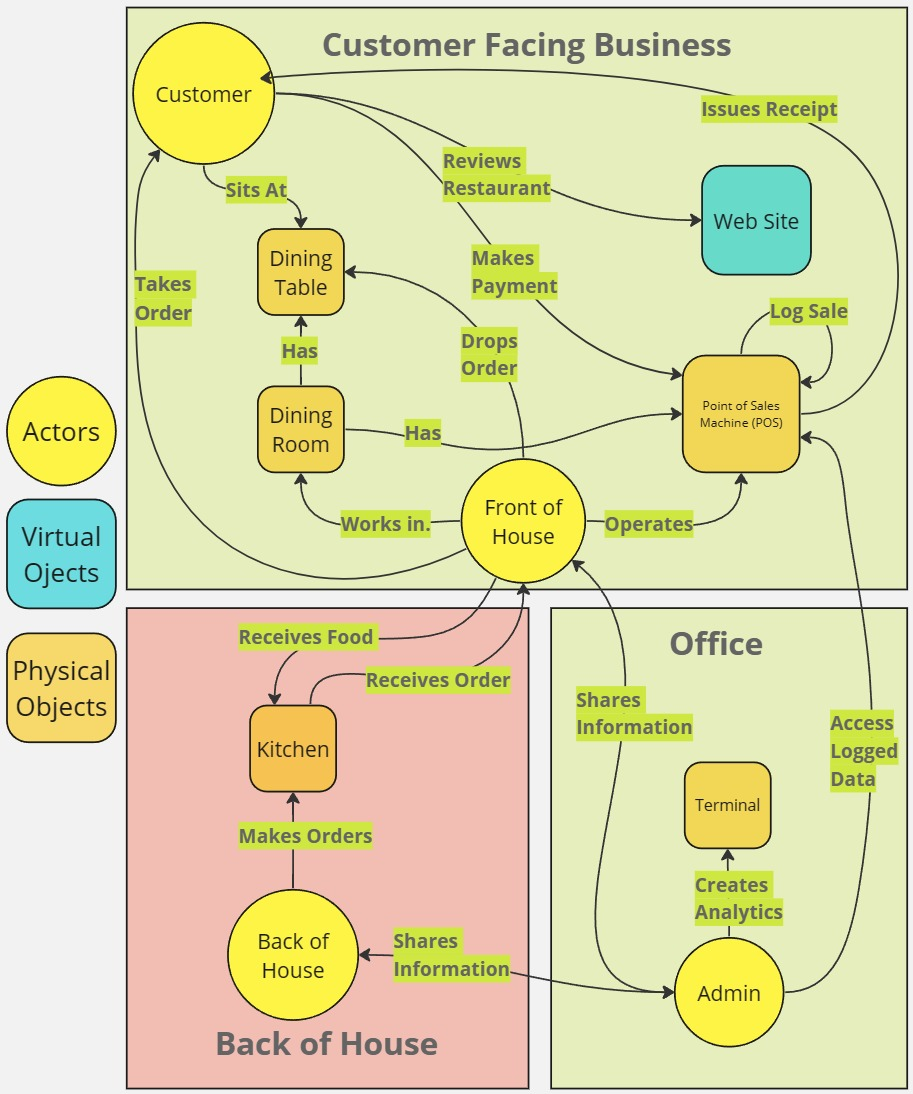
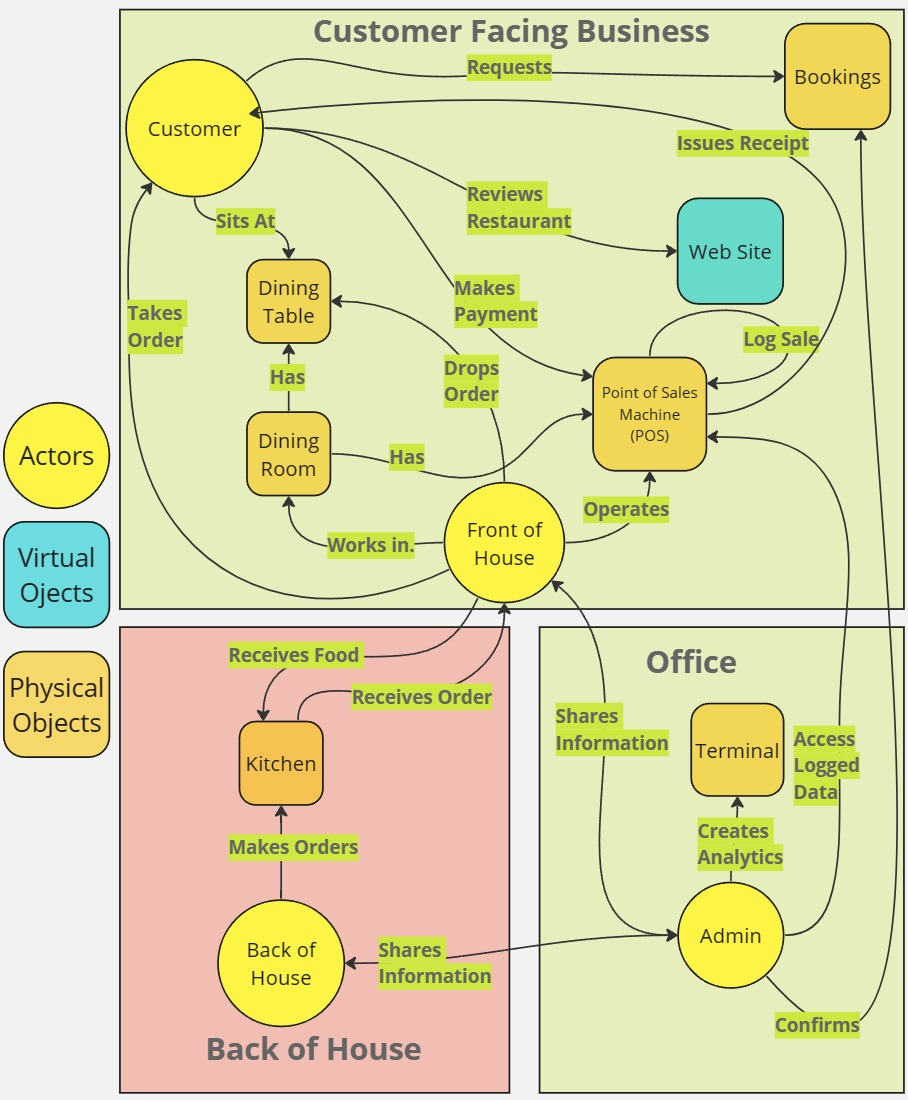
Added Task and Support
Including some blank tables with suggested Tasks for the members.

diff --git a/main.tex b/main.tex
@@ -1,7 +1,19 @@
 \documentclass{article}
 \usepackage{graphicx} % Required for inserting images
 \usepackage[smartEllipses]{markdown}
-\usepackage[left=2cm,right=2cm,top=2cm,bottom=2cm]{geometry} % Adjust margins as needed
+\usepackage{geometry}
+
+% Set the text width
+\geometry{
+    a4paper,
+    left=2cm,
+    right=2cm,
+    top=2cm,
+    bottom=2cm,
+    marginparwidth=1.5cm,
+    headheight=2cm
+}
+
 \usepackage{array}
 \usepackage{makecell}
 
@@ -132,6 +144,7 @@ The Cosy Koala has identified multiple ideas they would like to include in the O
     \item Payments
     \item Customer
     \item Front of House Staff
+    \item Seat
     \item Table
     \item Dining Room
     \item Receipts
@@ -139,6 +152,7 @@ The Cosy Koala has identified multiple ideas they would like to include in the O
     \item Order
     \item Marketing Data, i.e. Menu lists, JPGs etc.
     \item Point of Sales
+    \item Kitchen
 \end{enumerate}
 
 
@@ -151,6 +165,7 @@ The Cosy Koala has identified multiple ideas they would like to include in the O
     \item Admin
     \item Website
     \item Delivery System
+    \item EFTPOS or Banking System
 \end{enumerate}
 
 \subsection{Task - Brief}
@@ -191,30 +206,68 @@ A number of assumptions are made in relation to the implementation of this OIS i
 
 \subsection{Data model \normalsize\textbf{Author: Vincent}}
 
-\clearpage
+
 \subsubsection{Domain model \normalsize\textbf{Author: Vincent}}
-\begin{figure}[!h]
+\begin{figure}[!ht]
     \centering
     \includegraphics[width=15cm]{Domain_Model.jpg}
     \caption{Cosy Koala Domain Model}
     \label{fig:Domain_Model}
 \end{figure}
-\subsubsection{Entity Descriptions}
-Customer: Is a person dining on food or beverages prepared by Cosy Koala. This can be on site or take away (TA).\\\\
-Front of House: This is a staff member who has direct contact with the customer. They take orders from customers. Take orders to the Kitchen. Bring customers their food. They are responsible for maintaining the orders integrity (Making sure the customer gets what they pay for). The take customer transactions. Communicate with Admin.\\\\
-Back of House: Prepare the customers food order. Responsible for making sure front of house receive the food order with correct information i.e. order number etc. Communicate with Admin.\\\\
-Admin: Get the logged data from the Point of Sales Machine.
-Generate analytics from the Sales data.
-Web Site: Display general information about the restaurant.\\\\
-Dining Room: Containerizes and organizes customers orders i.e. If the restaurant has a multiple rooms this can be used to better locate customers for orders.\\\\
-Dining Table: Creates a sub container for organizing customers orders.\\\\
-Point of Sales Machine: Facilitates payment transactions. Issues receipts.\\ Logs sales data. Is operated be a front of house staff member.
-Kitchen: Containerizes and organizes customers food order for pick up.\\\\
-Terminal: Allows for the manipulation and reading of logged Sales Data.\\\\
 
+\subsubsection{Entity Descriptions - Detailed}
+\textbf{Meal:} To group together items for payment, delivery, or dropping at a table it would be helpful to place them into a unit of a meal. This way a meal can be paid for as one, or moved to a new table as one etc.
+
+\textbf{Payments:} This will model the owed amounts for a meal, capable of of dividing payments based on a number of divisions, i.e. by item, by table, by room for functions. It will interact with receipts and and the Payment System (Actor).
+
+\textbf{Customer:} This will model both the onsite and offsite customers, it will interact with bookings, tables, dining rooms, sales Data. It will contain customer specific data like meal, sales data.
+
+\textbf{Front of House:} This will be a model for anyone interacting with customers capable of creating orders, bookings, taking payment and issuing receipts etc.
+
+\textbf{Seat:} A customer can be assigned a seat to locate a meal or part of a meal to the correct customer.
+
+\textbf{Table:} Contains seats and can be used for grouping meals into a larger single unit for booking or payment.
+
+\textbf{Dining Room:} Containerizes and organizes customers orders i.e. If the restaurant has a multiple rooms this can be used to better locate customers for orders. It will contain tables which contain seats and customers.
+
+\textbf{Receipts:} Will be a record for Sales data and Customers of a meal including its expense, items, time, location. Will be issues by the payment entity.
+
+\textbf{Sales Data:} This is a aggregation of the Receipts data.
+
+\textbf{Order:} (Onsite) Contains the meal order items, seat, table, dining room, that is ordered by a customer. \\(Offsite) Contains the meal order items, customer that is ordered by a customer.
+
+\textbf{Marketing Data:} This will be the data that can be sent to the Website (Actor) in order to update the website.
+
+\textbf{Point of Sales Machine:} Facilitates payment transactions. Issues receipts. Logs sales data. Is operated be a front of house staff member. Interacts with the payment entity and the payment system (Actor)
+
+\textbf{Kitchen:} Containerizes and organizes customers food order for pick up by front of house.
+
+
+
+\subsection{Actors Descriptions - Detailed}
+
+\textbf{Onsite Customer:} Is a person dining on food or beverages prepared by Cosy Koala. This is done on site in a dining room at a table. .
+
+\textbf{Offsite Customer:} Is a person dining on food or beverages prepared by Cosy Koala. This is done off site at any location other than Cosy Koala dining rooms.
+
+\textbf{Front of House:} This is a staff member who has direct contact with the customer. They take orders from customers. Take orders to the Kitchen. Bring customers their food. They are responsible for maintaining the orders integrity (Making sure the customer gets what they pay for). The take customer transactions. Communicate with Admin.
+
+\textbf{Back of House:} Prepare the customers food order. Responsible for making sure front of house receive the food order with correct information i.e. order number etc. Communicate with Admin.
+
+\textbf{Website:} Displays the restaurant information for customers.
+
+\textbf{Admin:} Get the logged data from the Point of Sales Machine.
+Generate analytics from the Sales data.
+Web Site: Display general information about the restaurant.
+
+\textbf{EFTPOS or Banking System:} This is the outside system that will have to interact with the POS entity in order to facilitate payments.
+
+\textbf{Delivery System:} This the outside system that facilitates delivery, like Uber, or menulog etc.
+
+\clearpage
 \subsection{Tasks}
 
-\subsection{}
+\subsection{Complete Payment transaction onsite.}
 \begin{table}[htbp]
     \centering
     \begin{tabular}{|p{5cm}|p{10cm}|}
@@ -224,7 +277,7 @@ Terminal: Allows for the manipulation and reading of logged Sales Data.\\\\
         \textbf{Frequency:} Up to 150 times a breakfast, lunch or dinner service.}}\\
         \hline
         % Row 1
-        \textbf{Sub task 1} & \textbf{Example Solution 1} \\
+        \textbf{Sub task} & \textbf{Example Solution} \\
         \hline
         % Row 2
         Locate the meal in system. & Enter the table number, and dining room name in order to find the meal. \\
@@ -251,9 +304,235 @@ Terminal: Allows for the manipulation and reading of logged Sales Data.\\\\
         \hline
     \end{tabular}
     \caption{Taking Payment}
-    \label{tab:example}
+    \label{tab:Complete Payment transaction onsite.}
 \end{table}
 
+\clearpage
+\subsection{Take a booking}
+\begin{table}[htbp]
+    \centering
+    \begin{tabular}{|p{5cm}|p{10cm}|}
+        \hline
+        \multicolumn{2}{|c|}{\makecell[cl]{\textbf{Task:} Take a customers booking. \\
+        \textbf{Purpose:} To pre-allocate a customer to a table in order to make sure the customer can dine when arriving. \\
+        \textbf{Frequency:} Up to 150 time a service, 3 services a day.}}\\
+        \hline
+        % Row 1
+        \textbf{Sub task} & \textbf{Example Solution} \\
+        \hline
+        % Row 2
+        Receive customers correspondance - email, phone call & Each day the admin will check the restaurant email and collect any bookings that have been sent.  \\
+        \hline
+        % Row 3
+        For each booking review availability. & If some one wants to book a table for 4 at 8pm on Friday, the admin will first check if there is space for a table of 4 at that date and time. \\
+        \hline
+        % Row 4
+        Enter booking into record. & The admin will make a recording of the booking so that the resources cannot be double booked. \\
+        \hline
+        Inform the Front of house staff & The admin will transfer the bookings for today to a sheet for the front of house to organise the dining room to host. \\
+        \hline
+        Return confirmation correspondence to the customer & The admin will send a return email with the confirmation details.\\
+        \hline
+        \multicolumn{2}{|c|}{\makecell[cl]{\textbf{Variant:}}}\\
+        \hline
+        The Admin receives a phone call. & This booking will need to be reviewed on the spot in order to make confirmation. \\
+        \hline
+        The booking is made on short notice & After the bookings and confirmation have already been made for the day. A new booking comes in. The admin will need to directly confirm and inform front of house to accommodate the booking. \\
+        \hline
+        The booking cannot be made. & The admin must reject the booking and offer a possible alternative.\\
+        \hline
+    \end{tabular}
+    \caption{Take a booking}
+    \label{tab:Take a booking}
+\end{table}
+
+\clearpage
+\subsection{Take an tables order}
+\begin{table}[htbp]
+    \centering
+    \begin{tabular}{|p{5cm}|p{10cm}|}
+        \hline
+        \multicolumn{2}{|c|}{\makecell[cl]{\textbf{Task:} \\
+        \textbf{Purpose:} \\
+        \textbf{Frequency:}}}\\
+        \hline
+        % Row 1
+        Sub task 1 & Example Solution 1 \\
+        \hline
+        % Row 2
+        ? & ? \\
+        \hline
+        % Row 3
+        ? & ? \\
+        \hline
+        % Row 4
+        ? & ? \\
+        \hline
+        \multicolumn{2}{|c|}{\makecell[cl]{\textbf{Variant:}}}\\
+        \hline
+        ? & ? \\
+        \hline
+    \end{tabular}
+    \caption{Take a tables order}
+    \label{tab:Take a tables order}
+\end{table}
+
+\clearpage
+\subsection{Cook Food}
+\begin{table}[htbp]
+    \centering
+    \begin{tabular}{|p{5cm}|p{10cm}|}
+        \hline
+        \multicolumn{2}{|c|}{\makecell[cl]{\textbf{Task:} \\
+        \textbf{Purpose:} \\
+        \textbf{Frequency:}}}\\
+        \hline
+        % Row 1
+        Sub task 1 & Example Solution 1 \\
+        \hline
+        % Row 2
+        ? & ? \\
+        \hline
+        % Row 3
+        ? & ? \\
+        \hline
+        % Row 4
+        ? & ? \\
+        \hline
+        \multicolumn{2}{|c|}{\makecell[cl]{\textbf{Variant:}}}\\
+        \hline
+        ? & ? \\
+        \hline
+    \end{tabular}
+    \caption{Cook Food}
+    \label{tab:Cook Food}
+\end{table}
+
+\clearpage
+\subsection{Create Analytics}
+\begin{table}[htbp]
+    \centering
+    \begin{tabular}{|p{5cm}|p{10cm}|}
+        \hline
+        \multicolumn{2}{|c|}{\makecell[cl]{\textbf{Task:} \\
+        \textbf{Purpose:} \\
+        \textbf{Frequency:}}}\\
+        \hline
+        % Row 1
+        Sub task 1 & Example Solution 1 \\
+        \hline
+        % Row 2
+        ? & ? \\
+        \hline
+        % Row 3
+        ? & ? \\
+        \hline
+        % Row 4
+        ? & ? \\
+        \hline
+        \multicolumn{2}{|c|}{\makecell[cl]{\textbf{Variant:}}}\\
+        \hline
+        ? & ? \\
+        \hline
+    \end{tabular}
+    \caption{Create Analytics}
+    \label{tab:Create Analytics}
+\end{table}
+
+\clearpage
+\subsection{Update Website}
+\begin{table}[htbp]
+    \centering
+    \begin{tabular}{|p{5cm}|p{10cm}|}
+        \hline
+        \multicolumn{2}{|c|}{\makecell[cl]{\textbf{Task:} \\
+        \textbf{Purpose:} \\
+        \textbf{Frequency:}}}\\
+        \hline
+        % Row 1
+        Sub task 1 & Example Solution 1 \\
+        \hline
+        % Row 2
+        ? & ? \\
+        \hline
+        % Row 3
+        ? & ? \\
+        \hline
+        % Row 4
+        ? & ? \\
+        \hline
+        \multicolumn{2}{|c|}{\makecell[cl]{\textbf{Variant:}}}\\
+        \hline
+        ? & ? \\
+        \hline
+    \end{tabular}
+    \caption{Update Website}
+    \label{tab:Update Website}
+\end{table}
+
+\clearpage
+\subsection{Drops food to table}
+\begin{table}[htbp]
+    \centering
+    \begin{tabular}{|p{5cm}|p{10cm}|}
+        \hline
+        \multicolumn{2}{|c|}{\makecell[cl]{\textbf{Task:} \\
+        \textbf{Purpose:} \\
+        \textbf{Frequency:}}}\\
+        \hline
+        % Row 1
+        Sub task 1 & Example Solution 1 \\
+        \hline
+        % Row 2
+        ? & ? \\
+        \hline
+        % Row 3
+        ? & ? \\
+        \hline
+        % Row 4
+        ? & ? \\
+        \hline
+        \multicolumn{2}{|c|}{\makecell[cl]{\textbf{Variant:}}}\\
+        \hline
+        ? & ? \\
+        \hline
+    \end{tabular}
+    \caption{Drops food to table}
+    \label{tab:Drops food to table}
+\end{table}
+
+\clearpage
+\subsection{Share information Admin-Front of house, Admin-Back of house.}
+\begin{table}[htbp]
+    \centering
+    \begin{tabular}{|p{5cm}|p{10cm}|}
+        \hline
+        \multicolumn{2}{|c|}{\makecell[cl]{\textbf{Task:} \\
+        \textbf{Purpose:} \\
+        \textbf{Frequency:}}}\\
+        \hline
+        % Row 1
+        Sub task 1 & Example Solution 1 \\
+        \hline
+        % Row 2
+        ? & ? \\
+        \hline
+        % Row 3
+        ? & ? \\
+        \hline
+        % Row 4
+        ? & ? \\
+        \hline
+        \multicolumn{2}{|c|}{\makecell[cl]{\textbf{Variant:}}}\\
+        \hline
+        ? & ? \\
+        \hline
+    \end{tabular}
+    \caption{Admin communication}
+    \label{tab:Admin communication}
+\end{table}
+
+\clearpage
 \subsection{}
 \begin{table}[htbp]
     \centering
@@ -290,7 +569,7 @@ Terminal: Allows for the manipulation and reading of logged Sales Data.\\\\
 
 
 \subsection{Functional Requirements and Task Descriptions}
-\begin{figure}[!h]
+\begin{figure}[!ht]
     \centering
     \includegraphics[width=15cm]{Domain_product_diagram.jpg}
     \caption{Cosy Koala Domain Requirements}
